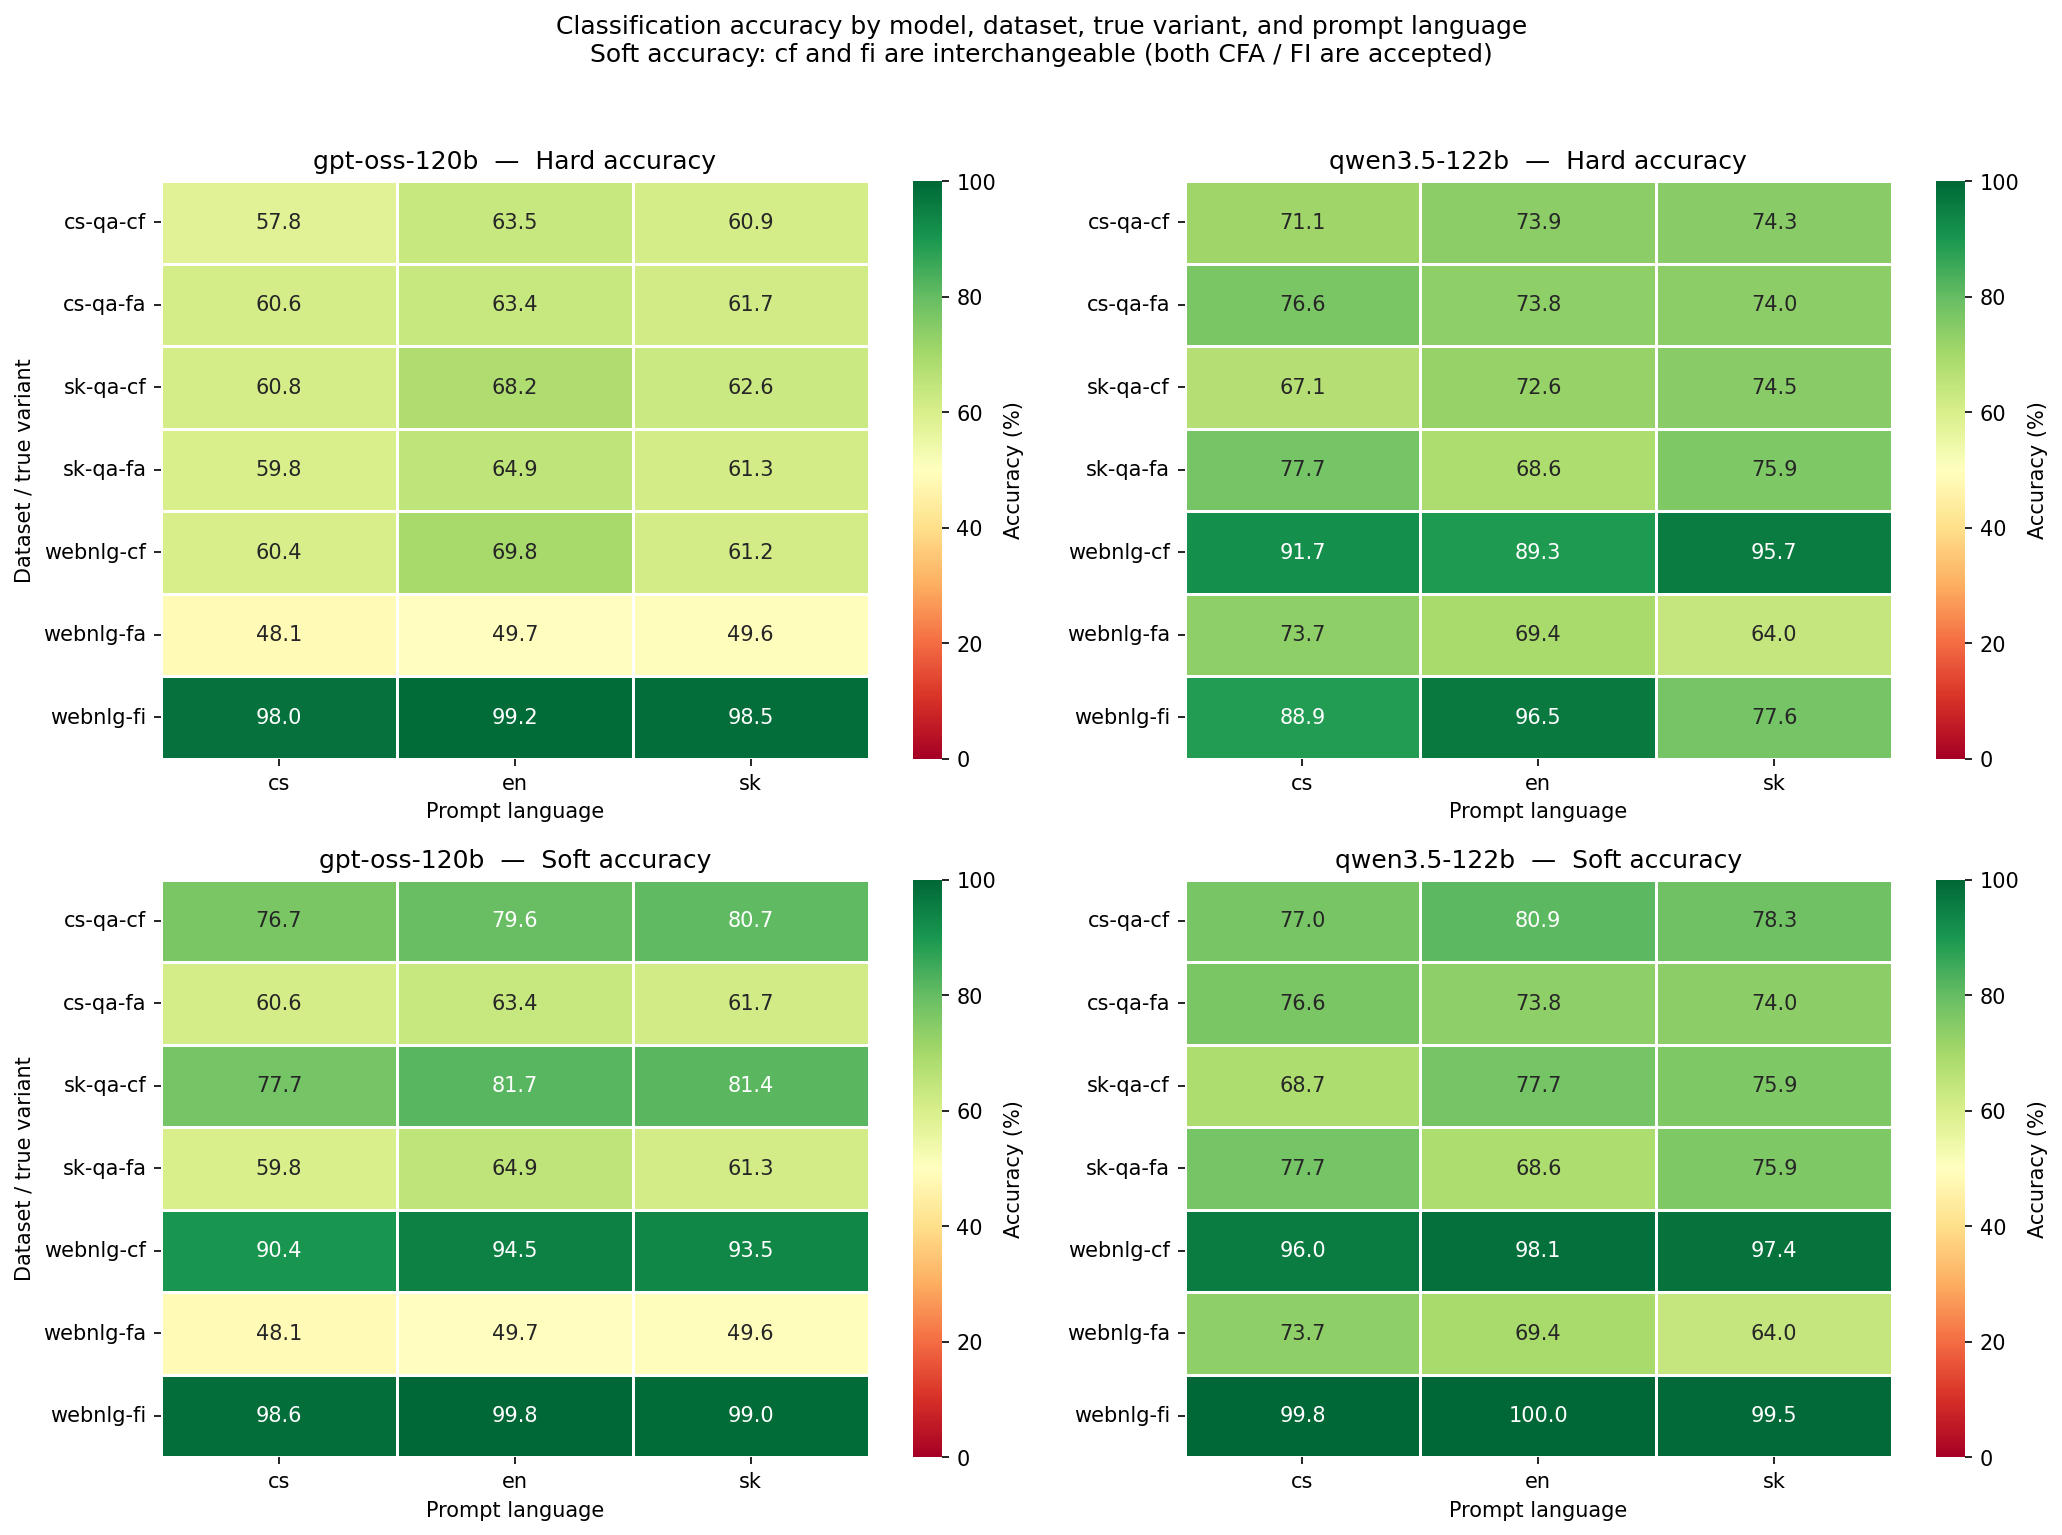
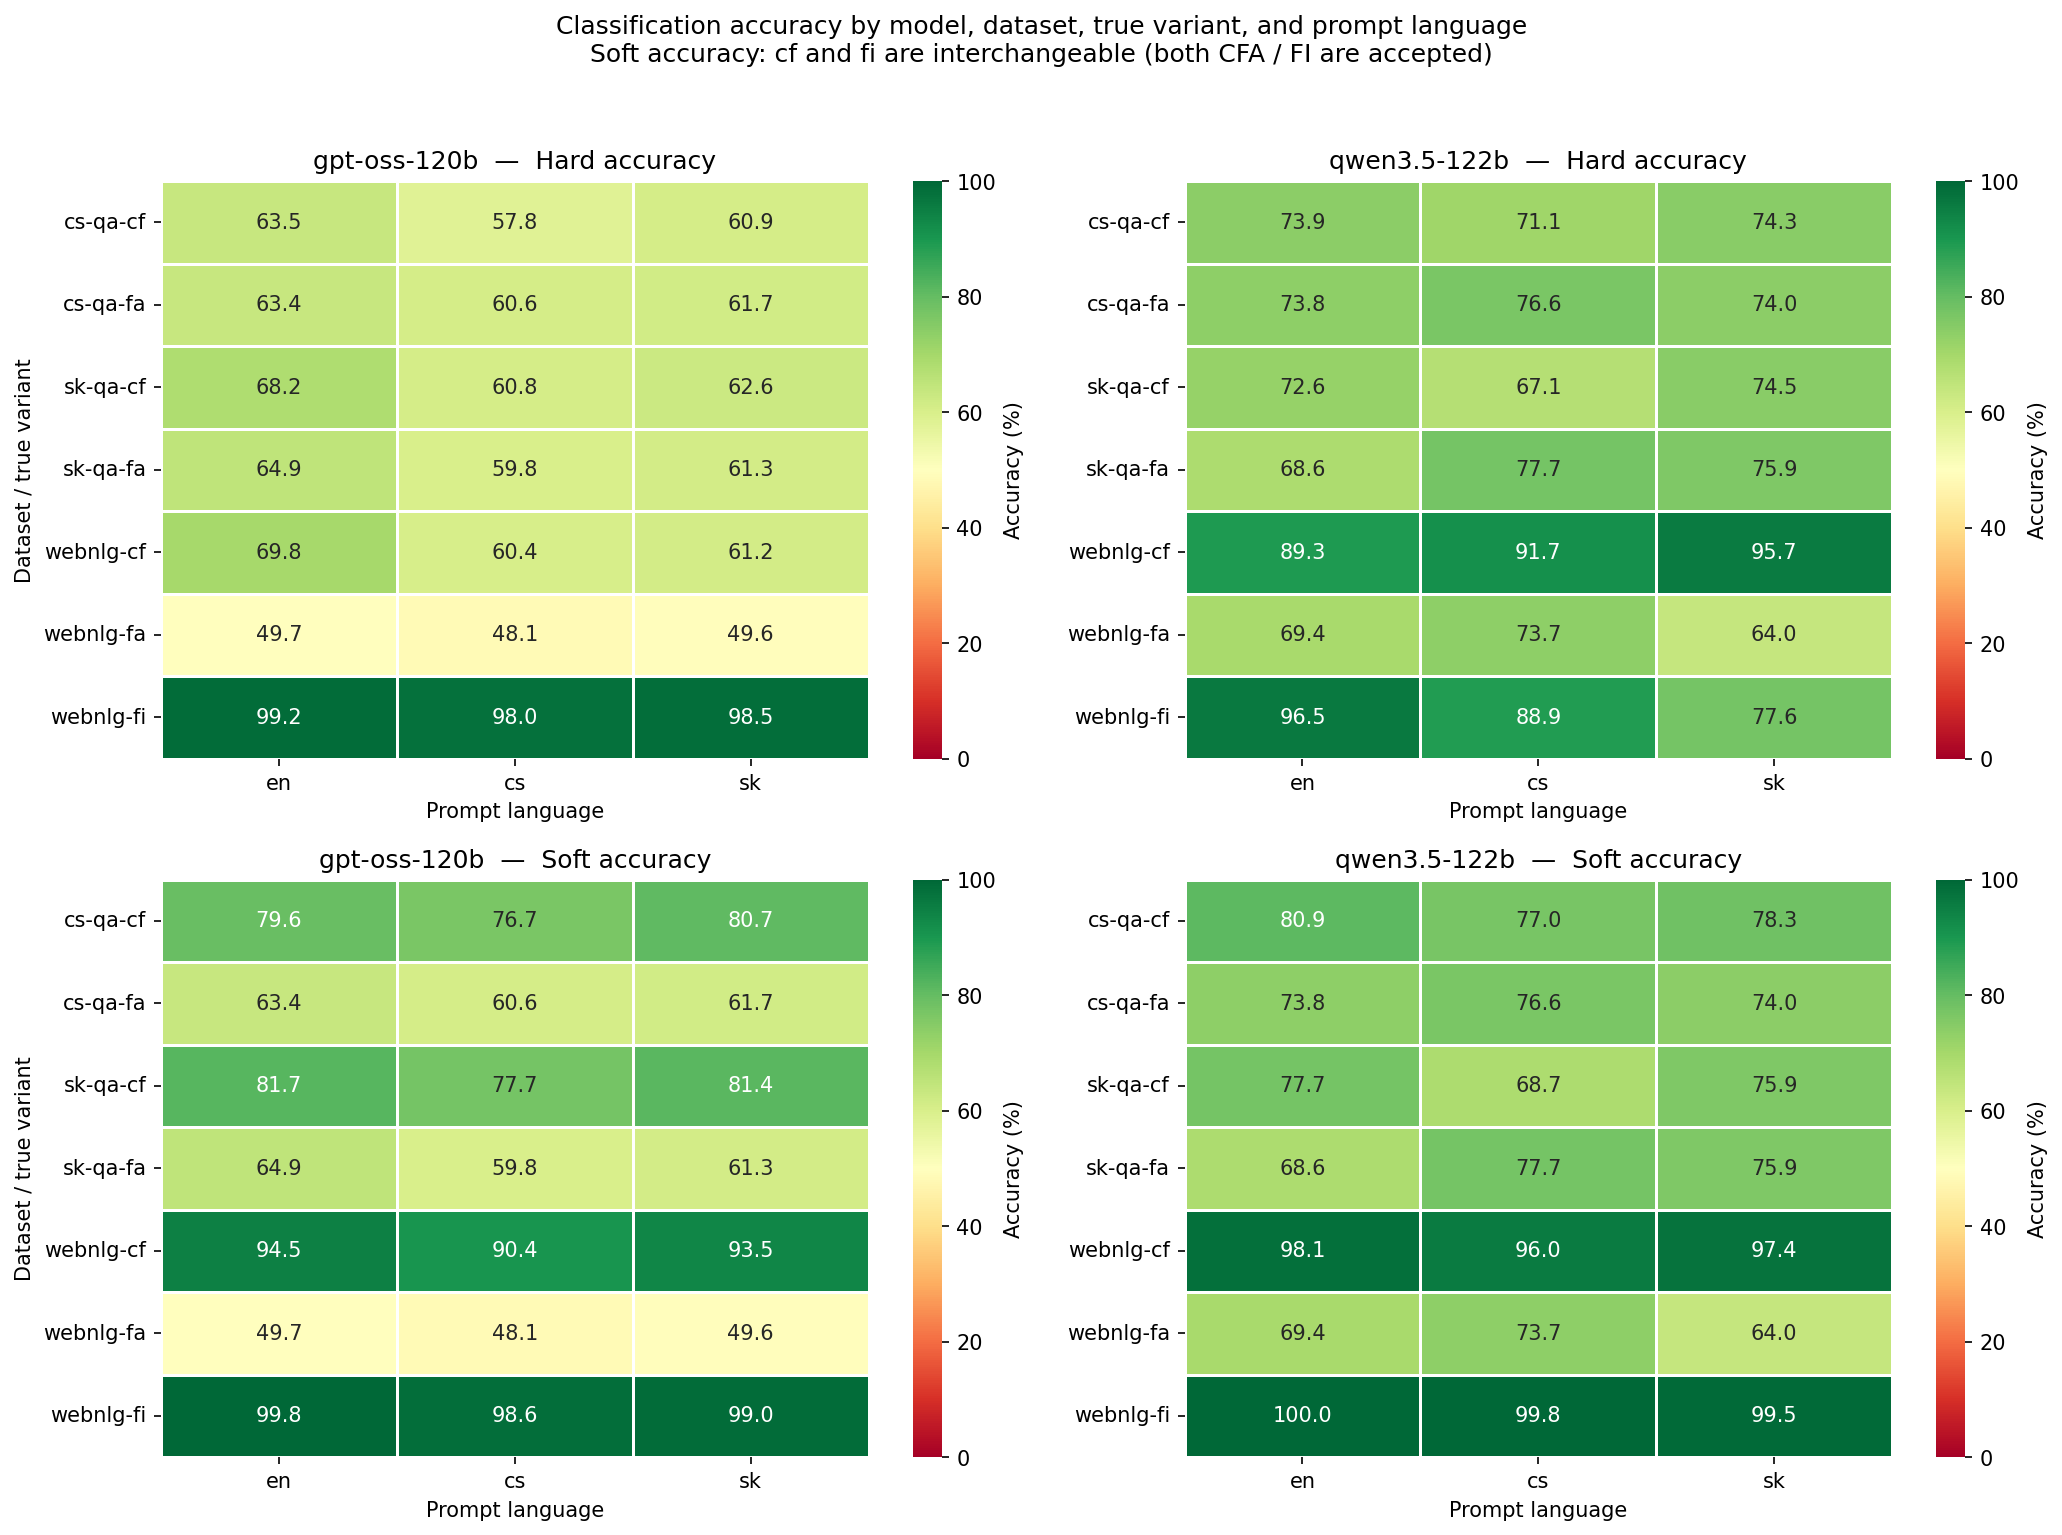
reorder the accuracies

diff --git a/analysis/classification_accuracy.py b/analysis/classification_accuracy.py
@@ -8,6 +8,7 @@ OUTPUT_PATH = Path(__file__).parent / "classification_accuracy.png"
 CONFUSION_OUTPUT_PATH = Path(__file__).parent / "classification_confusion_matrix.png"
 
 LABEL_ORDER = ["CFA", "FA", "FI"]
+LANGUAGE_ORDER = ["en", "cs", "sk"]
 
 HARD_LABEL = {"cf": "CFA", "fa": "FA", "fi": "FI"}
 SOFT_LABELS = {"cf": {"CFA", "FI"}, "fa": {"FA"}, "fi": {"FI", "CFA"}}
@@ -79,6 +80,7 @@ def pivot_for(results: pd.DataFrame, model: str, metric: str) -> pd.DataFrame:
     return (
         results[results["model"] == model]
         .pivot_table(index=["dataset", "variant"], columns="language", values=metric)
+        .reindex(columns=LANGUAGE_ORDER)
     )
 
 
